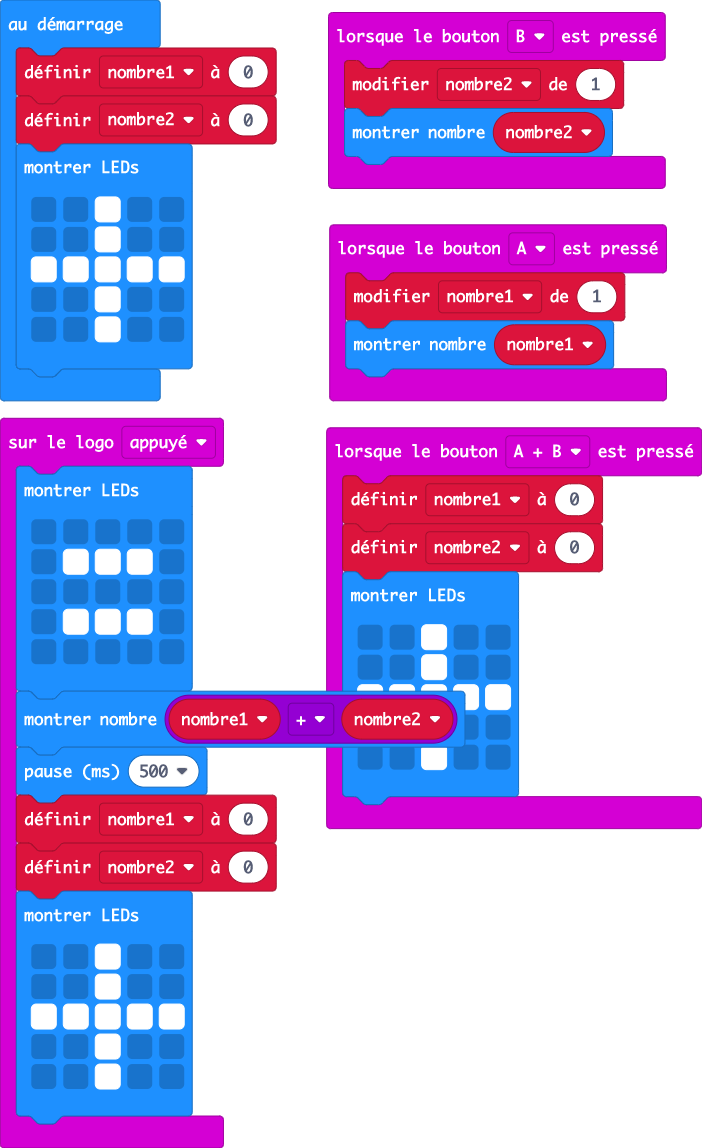
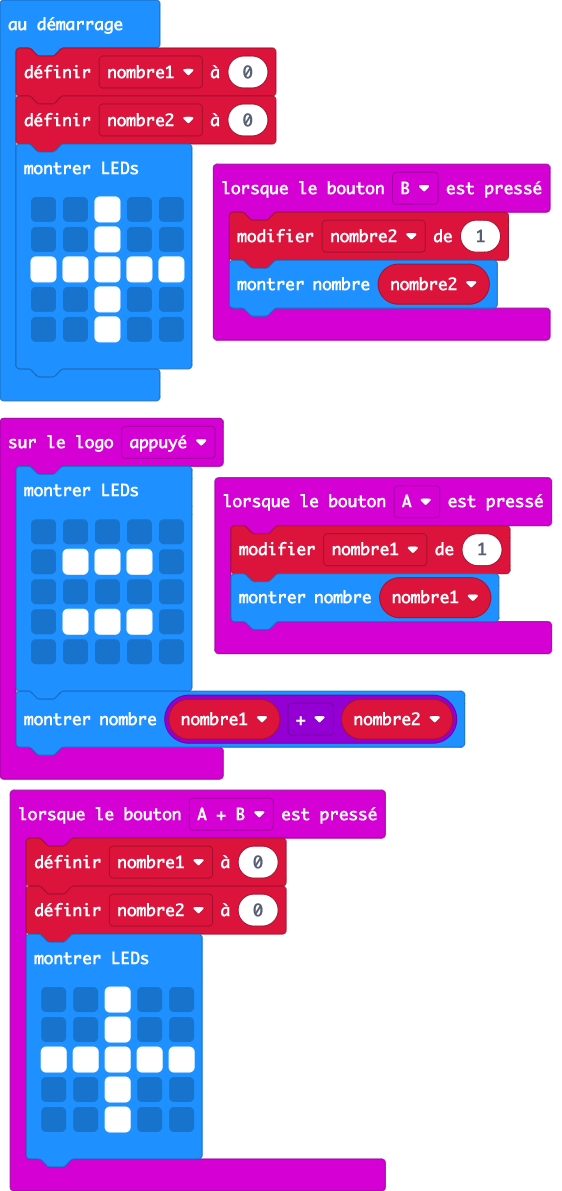
Mise à jour main.blocks, main.ts

diff --git a/main.ts b/main.ts
@@ -26,16 +26,6 @@ input.onLogoEvent(TouchButtonEvent.Pressed, function () {
         . . . . .
         `)
     basic.showNumber(nombre1 + nombre2)
-    basic.pause(500)
-    nombre1 = 0
-    nombre2 = 0
-    basic.showLeds(`
-        . . # . .
-        . . # . .
-        # # # # #
-        . . # . .
-        . . # . .
-        `)
 })
 let nombre2 = 0
 let nombre1 = 0
